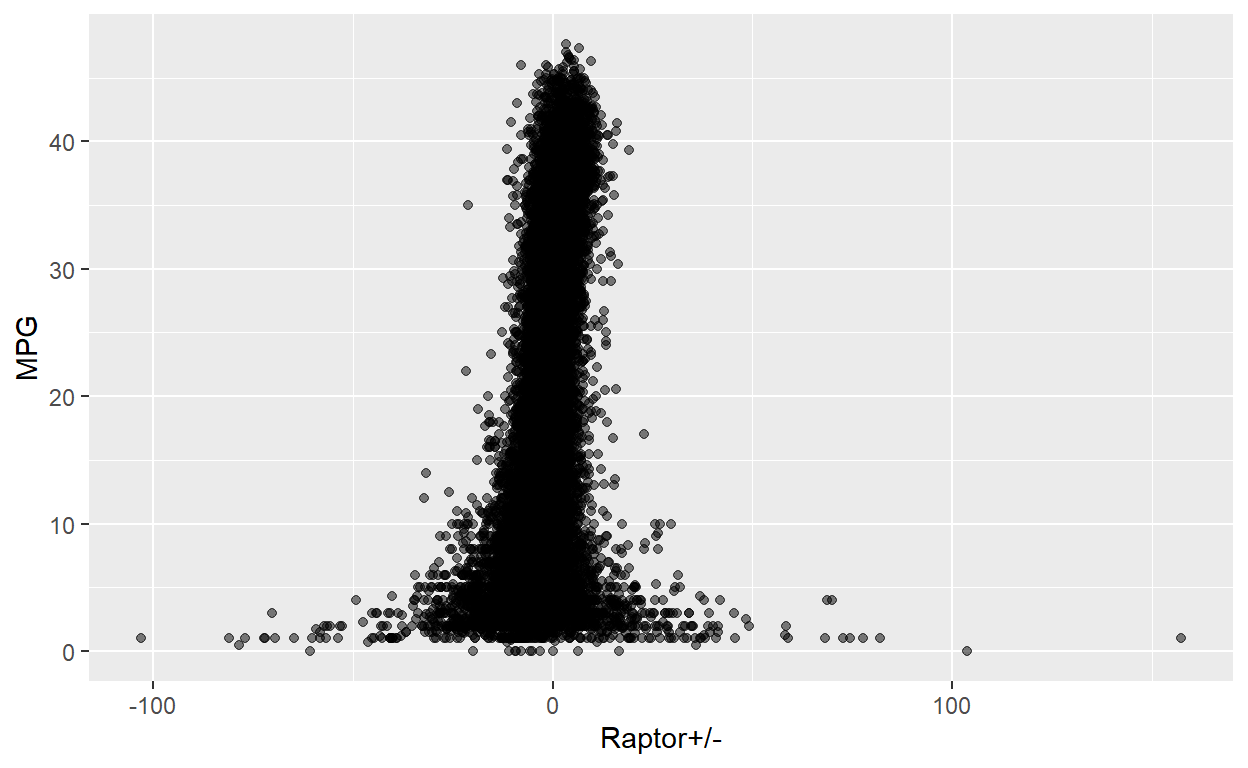
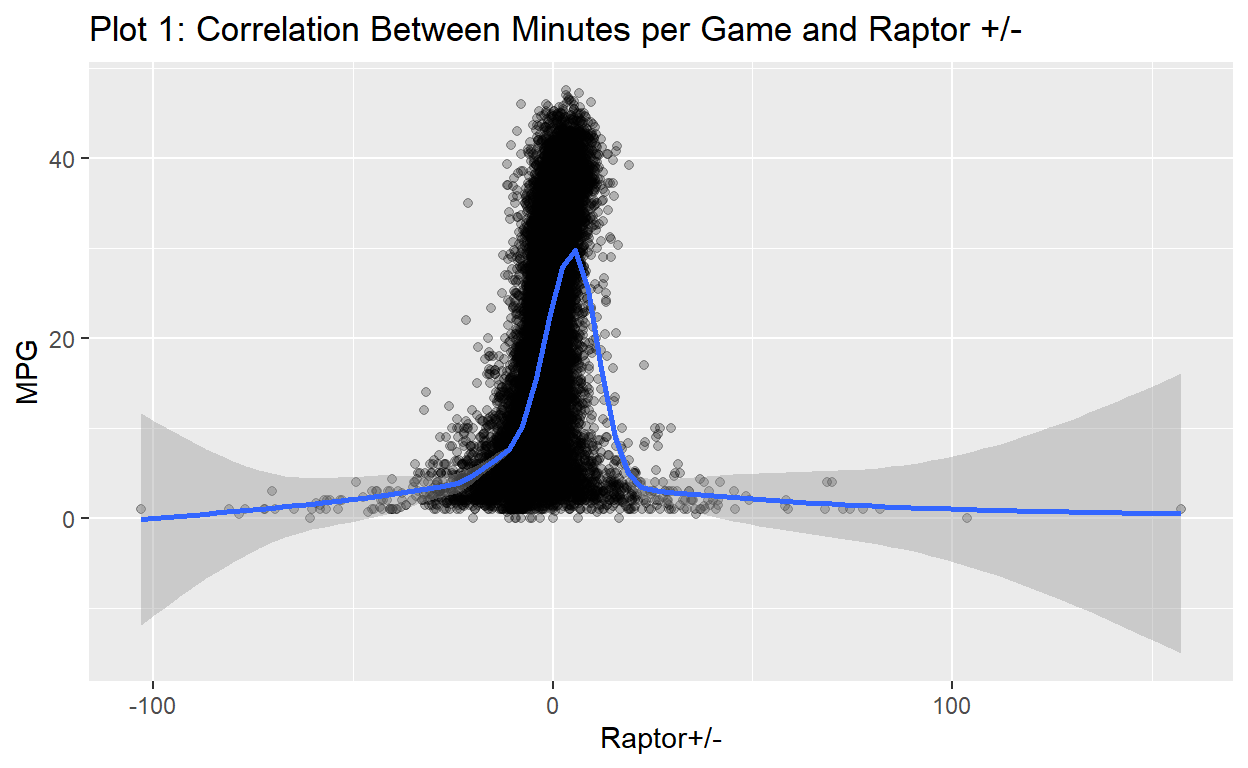
commit

diff --git a/index.html b/index.html
@@ -115,7 +115,7 @@ code span.wa { color: #5e5e5e; font-style: italic; } /* Warning */
   <!--/radix_placeholder_rmarkdown_metadata-->
   
   <script type="text/json" id="radix-resource-manifest">
-  {"type":"character","attributes":{},"value":["index_files/anchor-4.2.2/anchor.min.js","index_files/bowser-1.9.3/bowser.min.js","index_files/distill-2.2.21/template.v2.js","index_files/figure-html5/unnamed-chunk-2-1.png","index_files/header-attrs-2.17/header-attrs.js","index_files/jquery-3.6.0/jquery-3.6.0.js","index_files/jquery-3.6.0/jquery-3.6.0.min.js","index_files/jquery-3.6.0/jquery-3.6.0.min.map","index_files/popper-2.6.0/popper.min.js","index_files/tippy-6.2.7/tippy-bundle.umd.min.js","index_files/tippy-6.2.7/tippy-light-border.css","index_files/tippy-6.2.7/tippy.css","index_files/tippy-6.2.7/tippy.umd.min.js","index_files/webcomponents-2.0.0/webcomponents.js","nba-data-historical.csv"]}
+  {"type":"character","attributes":{},"value":["index_files/anchor-4.2.2/anchor.min.js","index_files/bowser-1.9.3/bowser.min.js","index_files/distill-2.2.21/template.v2.js","index_files/figure-html5/unnamed-chunk-2-1.png","index_files/figure-html5/unnamed-chunk-3-1.png","index_files/header-attrs-2.17/header-attrs.js","index_files/header-attrs-2.25/header-attrs.js","index_files/jquery-3.6.0/jquery-3.6.0.js","index_files/jquery-3.6.0/jquery-3.6.0.min.js","index_files/jquery-3.6.0/jquery-3.6.0.min.map","index_files/popper-2.6.0/popper.min.js","index_files/tippy-6.2.7/tippy-bundle.umd.min.js","index_files/tippy-6.2.7/tippy-light-border.css","index_files/tippy-6.2.7/tippy.css","index_files/tippy-6.2.7/tippy.umd.min.js","index_files/webcomponents-2.0.0/webcomponents.js","nba-data-historical.csv"]}
   </script>
   <!--radix_placeholder_navigation_in_header-->
   <!--/radix_placeholder_navigation_in_header-->
@@ -1518,12 +1518,13 @@ code span.wa { color: #5e5e5e; font-style: italic; } /* Warning */
 
 <div class="d-article">
 <h2 id="project-thoughts">Project thoughts</h2>
-<p>I am interested in researching how, in the NBA, minutes per game affects offensive rebounds per game.</p>
-<p>Does a player’s minutes per game affect their RAPTOR +/-? In this study, I will examine the possible correlation between these two statistics. For context, RAPTOR +/- is a basketball-exclusive stat that measures by how many points a player boosts or hinders their team’s performance. My hypothesis is that a player who receives more minutes per game will have a higher RAPTOR +/-. Generally, better players will play more in a game, and they will have more of a positive effect on the game then their teammates who play less. Since a player’s opportunity to record RAPTOR +/- is heavily dependent upon how many minutes they get, minutes is the explanatory variable. The outcome variable is RAPTOR +/-. The data would reflect my hypothesis if it showed a direct positive correlation between minutes per game and RAPTOR +/-.</p>
+<p>Is a NBA player’s minutes per game affected more by their RAPTOR +/- or their True Shooting percentage? In this study, I will examine the possible correlation between a player’s minutes per game and these two statistics. For context, RAPTOR +/- is a basketball-exclusive stat that measures by how many points a player boosts or hinders their team’s performance. True Shooting percentage is also basketball-exclusive, and it measures scoring efficiency while accounting for the point value of three pointers and free throws. Just like normal shooting metrics, you want to shoot as high of a percentage as possible. I hypothesize that, generally, a player who receives more minutes per game will have a higher RAPTOR +/- and True Shooting percentage. Generally, better players will play more in a game, and they will have more of a positive effect on the game then their teammates who play less. These players are also normally better, more efficient scorers. Since a player’s opportunity to record both RAPTOR +/- and an accurate True Shooting percentage is heavily dependent upon how many minutes they get, minutes is the explanatory variable. The outcome variables are True Shooting percentage and RAPTOR +/-. The data would reflect my hypothesis if it showed a direct positive correlation of minutes per game to True Shooting percentage and RAPTOR +/-.</p>
 <div class="layout-chunk" data-layout="l-body">
 <div class="sourceCode">
 <pre class="sourceCode r"><code class="sourceCode r"><span><span class='kw'><a href='https://rdrr.io/r/base/library.html'>library</a></span><span class='op'>(</span><span class='va'><a href='https://tidyverse.tidyverse.org'>tidyverse</a></span><span class='op'>)</span></span>
 <span><span class='kw'><a href='https://rdrr.io/r/base/library.html'>library</a></span><span class='op'>(</span><span class='va'><a href='https://ggplot2.tidyverse.org'>ggplot2</a></span><span class='op'>)</span></span>
+<span><span class='kw'><a href='https://rdrr.io/r/base/library.html'>library</a></span><span class='op'>(</span><span class='va'><a href='https://dplyr.tidyverse.org'>dplyr</a></span><span class='op'>)</span></span>
+<span><span class='kw'><a href='https://rdrr.io/r/base/library.html'>library</a></span><span class='op'>(</span><span class='va'><a href='https://haven.tidyverse.org'>haven</a></span><span class='op'>)</span></span>
 <span><span class='va'>nba</span> <span class='op'>&lt;-</span> <span class='fu'><a href='https://readr.tidyverse.org/reference/read_delim.html'>read_csv</a></span><span class='op'>(</span><span class='st'>"nba-data-historical.csv"</span><span class='op'>)</span></span>
 <span><span class='va'>nba</span></span></code></pre>
 </div>
@@ -1548,18 +1549,41 @@ code span.wa { color: #5e5e5e; font-style: italic; } /* Warning */
 #   `PIE%` &lt;chr&gt;, `AWS%` &lt;chr&gt;, `USG%` &lt;dbl&gt;, `AST%` &lt;dbl&gt;,
 #   `TOV%` &lt;dbl&gt;, `ORB%` &lt;dbl&gt;, `DRB%` &lt;dbl&gt;, `TRB%` &lt;dbl&gt;, …</code></pre>
 </div>
+<hr />
+<h2 id="data">Data</h2>
+<p>The data used for this project comes from the 2019-2020 NBA season, which was a peculiar season due to the COVID-19 pandemic derailing the entire league for some months. This significantly reduced the amount of regular season games played during the season by around twenty games. Nonetheless, some very valuable stats were recorded that can help us learn more about which players contribute to their respective teams the most. Analyzing the correlation of minutes per game to True Shooting percentage and RAPTOR +/- can show us if certain teams are giving the most minutes to those whose presence benefits the team the most. The independent variable in this data source is minutes per game, as there is no other stat that manipulates minutes per game. A player’s presence, or lack thereof, in the game is the most basic stat. The dependent variables are True Shooting percentage and RAPTOR +/-, as, generally, a player’s ability to take shots and impact the game, whether positively or negatively, is heavily dependent upon whether or not they are given the opportunity to play and how much they play.</p>
+<p>These variables are measured by building two scatter plots that both record every player who was on an NBA roster during the 2019-2020 season. The players are organized on the first plot based on how many minutes they averaged and their Raptor +/-. Plot 1 is examining whether those with a higher Raptor +/- generally play more minutes per game. Plot 2 is examining whether those with a higher True Shooting percentage generally play more minutes per game. The acronym “MPG” stands for minutes per game, and the acronym “TS%” stands for True Shooting percentage.</p>
 <div class="layout-chunk" data-layout="l-body">
 <div class="sourceCode">
 <pre class="sourceCode r"><code class="sourceCode r"><span><span class='va'>plot1</span> <span class='op'>&lt;-</span> <span class='va'>nba</span> <span class='op'>|&gt;</span> </span>
 <span>  <span class='fu'><a href='https://dplyr.tidyverse.org/reference/group_by.html'>group_by</a></span><span class='op'>(</span><span class='va'>age</span><span class='op'>)</span> <span class='op'>|&gt;</span></span>
 <span>  <span class='fu'><a href='https://ggplot2.tidyverse.org/reference/ggplot.html'>ggplot</a></span><span class='op'>(</span>data <span class='op'>=</span> <span class='va'>nba</span>,</span>
 <span>         mapping <span class='op'>=</span> <span class='fu'><a href='https://ggplot2.tidyverse.org/reference/aes.html'>aes</a></span><span class='op'>(</span>x <span class='op'>=</span> <span class='va'>`Raptor+/-`</span>,</span>
-<span>                       y <span class='op'>=</span> <span class='va'>MPG</span><span class='op'>)</span><span class='op'>)</span> <span class='op'>+</span> <span class='fu'><a href='https://ggplot2.tidyverse.org/reference/geom_point.html'>geom_point</a></span><span class='op'>(</span>alpha <span class='op'>=</span> <span class='fl'>0.5</span><span class='op'>)</span></span>
+<span>                       y <span class='op'>=</span> <span class='va'>MPG</span><span class='op'>)</span><span class='op'>)</span> <span class='op'>+</span> <span class='fu'><a href='https://ggplot2.tidyverse.org/reference/geom_point.html'>geom_point</a></span><span class='op'>(</span>alpha <span class='op'>=</span> <span class='fl'>0.25</span><span class='op'>)</span> <span class='op'>+</span> <span class='fu'><a href='https://ggplot2.tidyverse.org/reference/geom_smooth.html'>geom_smooth</a></span><span class='op'>(</span><span class='op'>)</span> <span class='op'>+</span> <span class='fu'><a href='https://ggplot2.tidyverse.org/reference/labs.html'>labs</a></span><span class='op'>(</span>title <span class='op'>=</span> <span class='st'>'Plot 1: Correlation Between Minutes per Game and Raptor +/-'</span><span class='op'>)</span></span>
 <span></span>
 <span><span class='va'>plot1</span></span></code></pre>
 </div>
 <p><img src="index_files/figure-html5/unnamed-chunk-2-1.png" width="624" /></p>
 </div>
+<div class="layout-chunk" data-layout="l-body">
+<div class="sourceCode">
+<pre class="sourceCode r"><code class="sourceCode r"><span><span class='va'>plot2</span> <span class='op'>&lt;-</span> <span class='va'>nba</span> <span class='op'>|&gt;</span> </span>
+<span>  <span class='fu'><a href='https://dplyr.tidyverse.org/reference/group_by.html'>group_by</a></span><span class='op'>(</span><span class='va'>age</span><span class='op'>)</span> <span class='op'>|&gt;</span></span>
+<span>  <span class='fu'><a href='https://ggplot2.tidyverse.org/reference/ggplot.html'>ggplot</a></span><span class='op'>(</span>data <span class='op'>=</span> <span class='va'>nba</span>,</span>
+<span>         mapping <span class='op'>=</span> <span class='fu'><a href='https://ggplot2.tidyverse.org/reference/aes.html'>aes</a></span><span class='op'>(</span>x <span class='op'>=</span> <span class='va'>`TS%`</span>,</span>
+<span>                       y <span class='op'>=</span> <span class='va'>`MPG`</span><span class='op'>)</span><span class='op'>)</span> <span class='op'>+</span> <span class='fu'><a href='https://ggplot2.tidyverse.org/reference/geom_point.html'>geom_point</a></span><span class='op'>(</span>alpha <span class='op'>=</span> <span class='fl'>0.25</span><span class='op'>)</span> <span class='op'>+</span> <span class='fu'><a href='https://ggplot2.tidyverse.org/reference/geom_smooth.html'>geom_smooth</a></span><span class='op'>(</span><span class='op'>)</span> <span class='op'>+</span> <span class='fu'><a href='https://ggplot2.tidyverse.org/reference/labs.html'>labs</a></span><span class='op'>(</span>title <span class='op'>=</span> <span class='st'>'Plot 2: Correlation Between Minutes per Game and True Shooting Percentage'</span><span class='op'>)</span></span>
+<span></span>
+<span><span class='va'>plot2</span></span></code></pre>
+</div>
+<p><img src="index_files/figure-html5/unnamed-chunk-3-1.png" width="624" /></p>
+</div>
+<hr />
+<h2 id="results-analysis">Results Analysis</h2>
+<p>Starting with Plot 1, we are given the results to the correlation between minutes per game and Raptor +/-. The plot shows that the coefficient of interest, Raptor +/-, steadily increases as the players’ minutes increase. This indicates that there is a direct positive correlation between minutes per game and Raptor +/-. The line of best fit displays that pattern, but it also shows that some of the stats are distorted outliers, which is a very natural occurrence when analyzing basketball statistics. Some players play for very small amounts of time at the ends of games when their team is losing or winning by a lot of points. Because they are in the games for only two or three minutes while their team is dominating or being dominated, their Raptor +/- can get disproportionately high or low compared to their minutes per game. However, these are only outliers that do not hold any weight in the statistical significance of the plot. The fact that the plot visibly displays that direct positive correlation is enough to label the results as statistically significant</p>
+<p>Next, plot 2 gives us the results to the correlation between minutes per game and True Shooting percentage. The coefficient of interest, True Shooting percentage, also steadily increases as the players’ minutes per game increase, indicating a direct positive correlation between minutes per game and True Shooting percentage. Similar to the plot 1, the line of best fit displays the same direct positive correlation as the raw plot, but reveals some distorted outliers. This is caused by a similar situation as plot 1. When players who don’t play much play for a small amount of minutes and shoot once or twice, it can cause their True Shooting percentage to be disproportionately high or low compared to their minutes per game depending on how many of those shots they make. These outliers also hold no weight in the statistical significance, and because the direct positive correlation is visible, we can confidently label the results as statistically significant. Through further research, I was also able to find out that the league average for true shooting percentage is around 58 percent, which is around the same exact area in which the peak of the line is.</p>
+<hr />
+<h2 id="conclusion">Conclusion</h2>
+<p>The results of both plots displayed two direct positive correlations between minutes per game and the two coefficients of interest, Raptor +/- and True Shooting percentage. This means that my hypothesis that, generally, players’ True Shooting percentage and Raptor +/- would increase with their minutes per game, was correct. I used a line of best fit to further detail the correlation and confirm that what I saw on the raw scatter plot was correct. Knowing the context of the outliers helped make sure there was no room for confusion about the results. If I had more time and/or money, I would use more recent and specific statistics with limitations to get rid of distorted statistics. However, I was able to conduct a relatively clean analysis as is.</p>
 <div class="sourceCode" id="cb2"><pre class="sourceCode r distill-force-highlighting-css"><code class="sourceCode r"></code></pre></div>
 <!--radix_placeholder_article_footer-->
 <!--/radix_placeholder_article_footer-->
